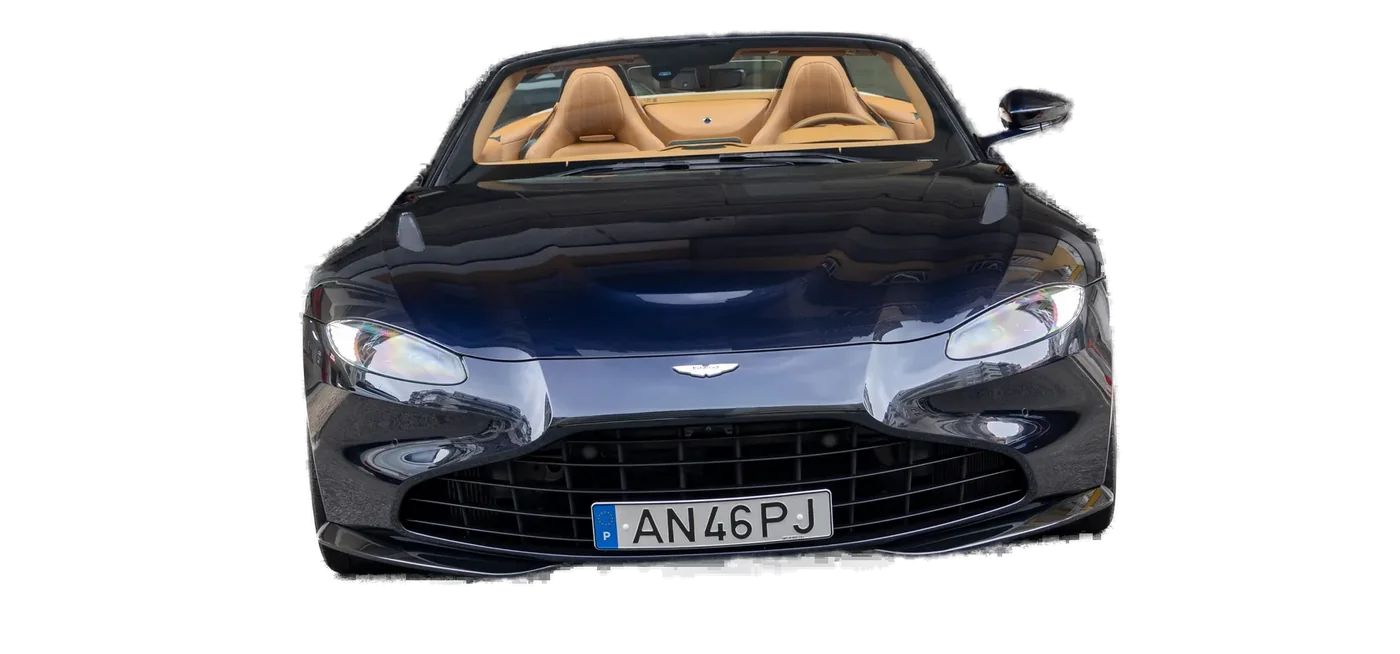
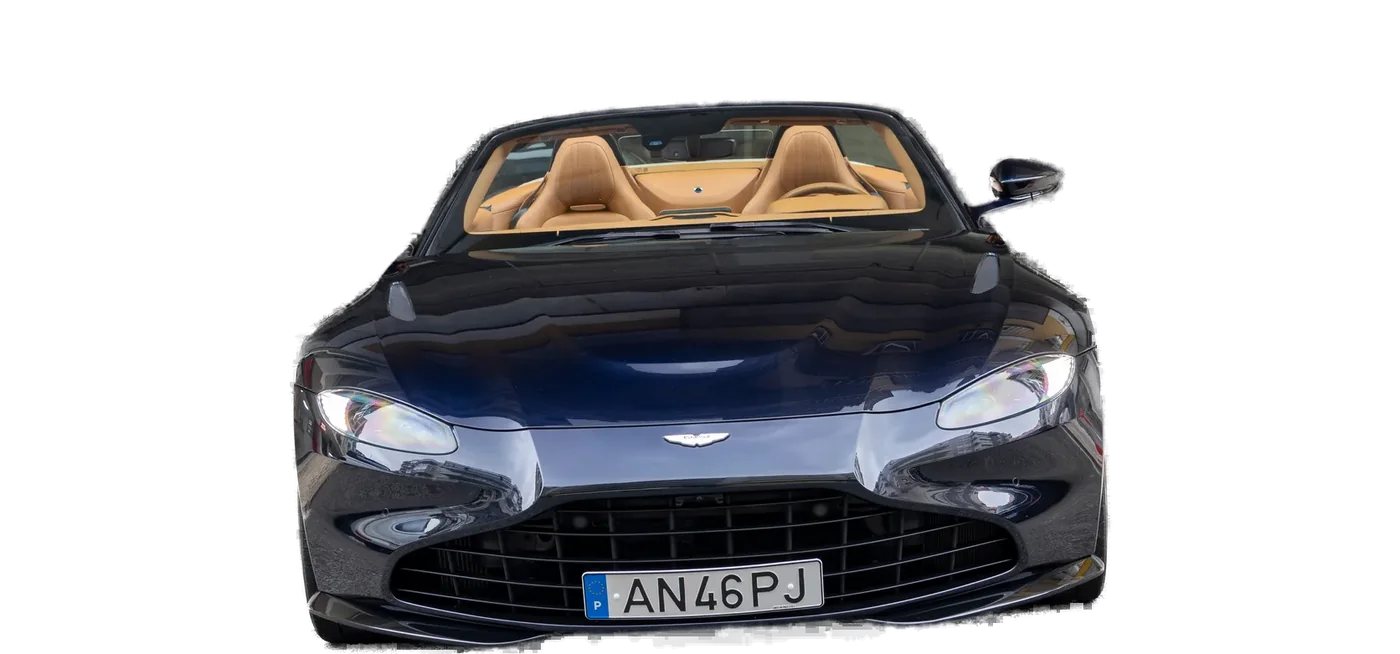
Aston Martin: add rear-left angle and align all 6 angles on the turntable
Six real photos now cover the full turn; each angle is centred and
bottom-aligned so the car sits on the platform in every frame.

Claude-Session: https://claude.ai/code/session_01XEhMSn5rs8equi2nVjCGp7

diff --git a/index.html b/index.html
@@ -539,7 +539,7 @@ const STAND = {
 // Cópia de cars.json — usada se o fetch falhar (ex.: abrir o ficheiro em file://)
 const seq = dir => Array.from({length:36}, (_, i) => `cars/${dir}/${String(i).padStart(2, '0')}.webp`);
 const FALLBACK_CARS = [
-  {id:'aston-martin-vantage-roadster',marca:'Aston Martin',modelo:'Vantage Roadster',ano:null,km:null,combustivel:'Gasolina',caixa:'Automática',potencia_cv:510,preco:null,imagem:'cars/aston-vantage-roadster.webp',cor:'#1b2236',frames:[1,4,5,3,2].map(i => `cars/aston-vantage-roadster/${i}.webp`),demo:false},
+  {id:'aston-martin-vantage-roadster',marca:'Aston Martin',modelo:'Vantage Roadster',ano:null,km:null,combustivel:'Gasolina',caixa:'Automática',potencia_cv:510,preco:null,imagem:'cars/aston-vantage-roadster.webp',cor:'#1b2236',frames:[1,4,5,6,3,2].map(i => `cars/aston-vantage-roadster/${i}.webp`),demo:false},
   {id:'ferrari-458-spider-rosso',marca:'Ferrari',modelo:'458 Spider',ano:2014,km:21500,combustivel:'Gasolina',caixa:'Automática',potencia_cv:570,preco:214900,imagem:'cars/ferrari-458-rosso.webp',cor:'#a50f12',frames:seq('ferrari-458-rosso'),demo:true},
   {id:'concept-gt-arancio',marca:'Concept',modelo:'GT Coupé',ano:2025,km:900,combustivel:'Elétrico',caixa:'Automática',potencia_cv:680,preco:249900,imagem:'cars/concept-gt-arancio.webp',cor:'#d9520f',frames:seq('concept-gt-arancio'),demo:true},
   {id:'ferrari-458-spider-giallo',marca:'Ferrari',modelo:'458 Spider',ano:2013,km:28900,combustivel:'Gasolina',caixa:'Automática',potencia_cv:570,preco:199900,imagem:'cars/ferrari-458-giallo.webp',cor:'#e3a90a',frames:[],demo:true},
